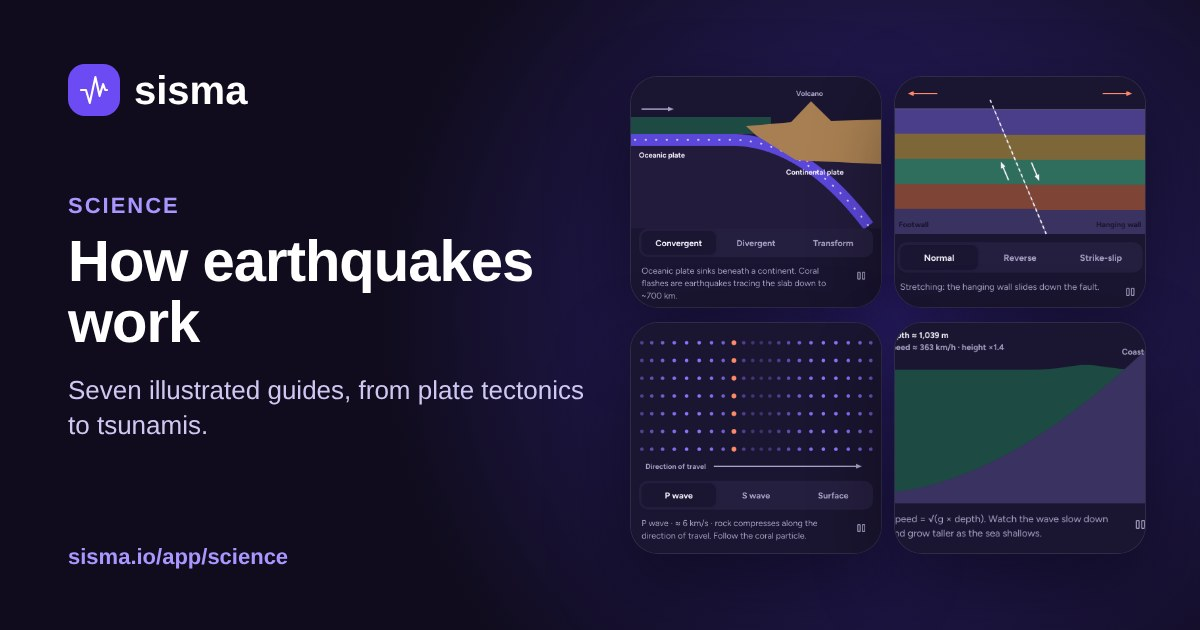
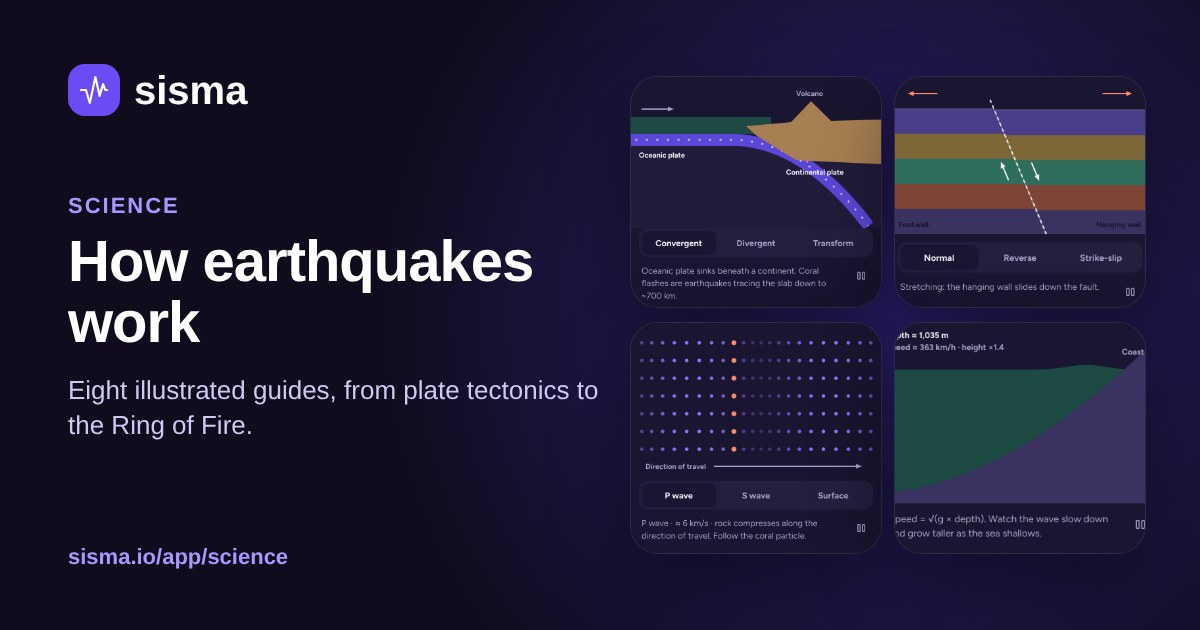
Science: The Ring of Fire, with a live Pacific earthquake map
- New article (content/science.json, English like the others): what the Ring of Fire is, the plates and boundary
  types, why subduction zones make the largest earthquakes (Chile 1960, Alaska 1964, Tōhoku 2011, Kamchatka 1952)
  and tsunamis, the volcanic arcs, deep earthquakes along sinking slabs (Wadati–Benioff zones, Tonga), Cascadia, and
  what in the Pacific is not part of the Ring (Hawaii, East Pacific Rise).
- RingWidget: the selected period's M4.5+ earthquakes on a Pacific-centred Equal Earth map with plate boundaries,
  coloured on / off the Ring, with live counts and share. lib/ring-of-fire.ts: rough outline as lat / lon boxes, 36 tests.
- Title and widget text in all 10 locales; "seven guides" → eight in the app (web.f4_p), help centre and SEO.
- Social cards: new og/science-ring.jpg, og/science.jpg rebuilt for the new subtitle.

Claude-Session: https://claude.ai/code/session_01VVoEA6g7d5oSRS2St1KTEW

Changed region(s): [[0.0617, 0.6032, 0.4933, 0.6333], [0.0617, 0.6635, 0.2158, 0.6937]]

diff --git a/app/src/components/science/Widgets.tsx b/app/src/components/science/Widgets.tsx
@@ -1,9 +1,13 @@
 'use client';
 // Interactive article widgets from design/SismaApp.dc.html: magnitude slider (visMag),
-// live depth histogram + Omori aftershock decay (visDepth), Drop/Cover/Hold + 3-day kit (visPrep).
+// live depth histogram + Omori aftershock decay (visDepth), Drop/Cover/Hold + 3-day kit (visPrep), and the live
+// Ring of Fire map (the M4.5+ earthquakes of the selected period around the Pacific, lib/ring-of-fire.ts).
 import { useMemo, useState, useSyncExternalStore } from 'react';
 import { useT } from '@/i18n/I18nProvider';
+import { geoEqualEarth, geoPath } from 'd3-geo';
 import { useQuakeData, RANGE_LABEL } from '@/components/QuakeData';
+import { LAND, SPHERE, usePlates } from '@/lib/world';
+import { onRingOfFire } from '@/lib/ring-of-fire';
 import styles from './science.module.css';
 
 const fill = (s: string, v: Record<string, string>) => s.replace(/\{(\w+)\}/g, (_, k) => v[k] ?? '');
@@ -113,5 +117,45 @@ export function PrepWidget({ kit }: { kit: string[] }) {
         ))}
       </section>
     </div>
+  );
+}
+
+// Equal Earth centred on 170° W and cropped to the Pacific (90° E to 60° W, 62° S to 68° N), so the rim fills the card.
+const RW = 640, RH = 400;
+const PACIFIC = { type: 'MultiPoint' as const, coordinates: [90, 130, 170, 210, 250, 300].flatMap(lon => [[lon, -62], [lon, 0], [lon, 68]]) };
+const ringProj = geoEqualEarth().rotate([170, 0]).fitExtent([[6, 6], [RW - 6, RH - 6]], PACIFIC);
+const ringPath = geoPath(ringProj);
+const RING_SPHERE = ringPath(SPHERE) ?? '';
+const RING_LAND = ringPath(LAND) ?? '';
+
+/** Live map of the selected period's M4.5+ earthquakes: on the Ring of Fire (warm) and elsewhere (muted), with counts. */
+export function RingWidget() {
+  const { t, m, nf } = useT();
+  const L = m.sci.ring;
+  const { all, range, loaded } = useQuakeData();
+  const plates = usePlates(true);
+  const platePath = useMemo(() => (plates ? ringPath(plates) ?? '' : ''), [plates]);
+  const dots = useMemo(() => all.filter(q => q.mag >= 4.5).map(q => ({ q, on: onRingOfFire(q.lat, q.lon), xy: ringProj([q.lon, q.lat]) }))
+    .filter(d => d.xy).sort((a, b) => Number(a.on) - Number(b.on) || a.q.mag - b.q.mag), [all]);
+  const on = dots.filter(d => d.on).length, total = dots.length;
+  const pct = total ? Math.round((on / total) * 100) : 0;
+  return (
+    <section className={styles.card}>
+      <p className={styles.cardLabel}>{loaded ? fill(L.live, { n: nf.format(on), total: nf.format(total), pct: String(pct), range: t(RANGE_LABEL[range]) }) : '…'}</p>
+      <svg viewBox={`0 0 ${RW} ${RH}`} className={styles.ringMap} role="img" aria-label={L.map}>
+        <path d={RING_SPHERE} fill="var(--map-sea)" />
+        <path d={RING_LAND} fill="var(--map-land)" stroke="var(--map-line)" strokeWidth={0.5} />
+        {platePath && <path d={platePath} fill="none" stroke="var(--map-plate)" strokeWidth={1} strokeDasharray="4 3" opacity={0.7} />}
+        {dots.map(({ q, on: o, xy }) => (
+          <circle key={q.id} cx={xy![0]} cy={xy![1]} r={2.6 + (q.mag - 4.5) * 1.8} fill={o ? 'var(--mag-2)' : 'var(--ink2)'} fillOpacity={o ? 0.85 : 0.45}
+            stroke={o ? 'var(--bg)' : 'none'} strokeWidth={0.5} />
+        ))}
+      </svg>
+      <div className={styles.ringLegend}>
+        <span><i style={{ background: 'var(--mag-2)' }} />{L.on}<b>{nf.format(on)}</b></span>
+        <span><i style={{ background: 'var(--ink2)', opacity: 0.6 }} />{L.off}<b>{nf.format(total - on)}</b></span>
+      </div>
+      <p className={styles.ringNote}>{L.note}</p>
+    </section>
   );
 }

diff --git a/app/src/lib/ring-of-fire.ts b/app/src/lib/ring-of-fire.ts
@@ -1,0 +1,26 @@
+// The Pacific Ring of Fire as a rough outline for counting earthquakes (science article "The Ring of Fire"): the
+// subduction zones and plate boundaries around the Pacific, from New Zealand, Tonga and Indonesia through the
+// Philippines, Japan and Kamchatka, across the Aleutians and Alaska, and down the west of the Americas to Chile.
+// Hawaii (a hotspot) and the East Pacific Rise (a spreading ridge, e.g. Easter Island) lie inside the Pacific and are
+// left out, as are the Caribbean and Scotia arcs on the Atlantic side. It is a set of latitude / longitude boxes, so
+// it is approximate at the edges.
+
+/** [south, north, west, east] in degrees; west > east wraps across 180°. */
+type Box = [number, number, number, number];
+
+const BOXES: Box[] = [
+  [-15, 8, 95, 180],      // Sumatra and Java to Papua, Solomons, Vanuatu, Fiji
+  [8, 62, 119, 180],      // Philippines, Taiwan, Ryukyu, Japan, Kurils, Kamchatka
+  [-52, -15, 160, 180],   // New Zealand, Kermadec (west of 180°)
+  [-52, 8, -180, -170],   // Tonga, Kermadec, Samoa (east of 180°)
+  [50, 66, -180, -130],   // Aleutians, Alaska
+  [25, 60, -135, -110],   // Pacific coast of Canada and the United States, Cascadia, California
+  [5, 25, -118, -83],     // Mexico and Central America
+  [-60, 5, -90, -63],     // Andes: Colombia, Ecuador, Peru, Chile, Argentina
+];
+
+/** True when a point lies in the rough outline of the Pacific Ring of Fire. */
+export function onRingOfFire(lat: number, lon: number): boolean {
+  const x = ((lon + 540) % 360) - 180;
+  return BOXES.some(([s, n, w, e]) => lat >= s && lat <= n && (w <= e ? x >= w && x <= e : x >= w || x <= e));
+}

diff --git a/app/src/lib/ring-of-fire.test.ts b/app/src/lib/ring-of-fire.test.ts
@@ -1,0 +1,23 @@
+import { describe, expect, it } from 'vitest';
+import { onRingOfFire } from './ring-of-fire';
+
+describe('onRingOfFire', () => {
+  it.each([
+    ['Tokyo', 35.7, 139.8], ['Kamchatka', 53, 159], ['Philippines', 13, 124], ['Taiwan', 23.5, 121], ['Java', -7.5, 110],
+    ['Sumatra', -1, 100], ['Papua New Guinea', -6, 147], ['Vanuatu', -16, 168], ['Fiji', -18, 178.5], ['Tonga', -21, -175],
+    ['Kermadec', -30, -177.5], ['New Zealand', -41, 174], ['Aleutians', 52, -175], ['Anchorage', 61.2, -150],
+    ['Seattle', 47.6, -122.3], ['Cascadia offshore', 44, -125], ['San Francisco', 37.8, -122.4], ['Mexico City', 19.4, -99.1],
+    ['Guatemala', 14.6, -90.5], ['Ecuador', -1, -79], ['Lima', -12, -77], ['Santiago', -33.4, -70.6], ['Valdivia', -39.8, -73.2],
+  ])('includes %s', (_, lat, lon) => expect(onRingOfFire(lat, lon)).toBe(true));
+
+  it.each([
+    ['Hawaii', 19.4, -155.3], ['Easter Island', -27.1, -109.4], ['East Pacific Rise', -20, -113], ['Italy', 42, 13],
+    ['Turkey', 38, 37], ['Iceland', 64, -18], ['Puerto Rico', 18.2, -66.5], ['Mid-Atlantic Ridge', 0, -20],
+    ['Nepal', 28, 84], ['Iran', 32, 53], ['South Sandwich Islands', -57, -26], ['New York', 40.7, -74],
+  ])('leaves out %s', (_, lat, lon) => expect(onRingOfFire(lat, lon)).toBe(false));
+
+  it('wraps longitudes past 180°', () => {
+    expect(onRingOfFire(-21, 185)).toBe(true); // = -175, Tonga
+    expect(onRingOfFire(35.7, -220.2)).toBe(true); // = 139.8, Tokyo
+  });
+});

diff --git a/app/src/app/help/topics.tsx b/app/src/app/help/topics.tsx
@@ -433,7 +433,7 @@ export const TOPICS: Topic[] = [
       <>
       <div className={s.pair}>
         <div>
-          <p>The <Ui>Science</Ui> tab has seven short illustrated guides, each with an animated diagram: plate tectonics, fault types, seismic waves, magnitude and intensity, depth and aftershocks, tsunamis, and how to prepare.</p>
+          <p>The <Ui>Science</Ui> tab has eight short illustrated guides, each with an animated diagram or a live chart: plate tectonics, fault types, seismic waves, magnitude and intensity, depth and aftershocks, tsunamis, how to prepare, and the Ring of Fire, with a live map of how many recent earthquakes struck around the Pacific.</p>
           <p>Tap the buttons under a diagram to switch views, and the pause button to stop the animation. The article text is in English; the rest of the app follows your language.</p>
         </div>
         <Shot src="science" alt="Seismic waves article with an animated diagram of P waves" caption="A science guide" />

diff --git a/app/src/app/app/science/[slug]/page.tsx b/app/src/app/app/science/[slug]/page.tsx
@@ -8,7 +8,7 @@ import { notFound } from 'next/navigation';
 import science from '@/content/science.json';
 import { useT } from '@/i18n/I18nProvider';
 import { ScienceCanvas } from '@/components/science/ScienceCanvas';
-import { DepthWidget, MagnitudeWidget, PrepWidget } from '@/components/science/Widgets';
+import { DepthWidget, MagnitudeWidget, PrepWidget, RingWidget } from '@/components/science/Widgets';
 import { VISUALS, type CanvasVisual } from '@/components/science/visuals';
 import styles from '@/components/science/science.module.css';
 
@@ -50,6 +50,7 @@ function ArticleView({ a, i }: { a: Article; i: number }) {
       {a.visual === 'mag' && <MagnitudeWidget />}
       {a.visual === 'depth' && <DepthWidget />}
       {a.visual === 'prep' && <PrepWidget kit={a.kit ?? []} />}
+      {a.visual === 'ring' && <RingWidget />}
 
       {a.sections.map(s => (
         <section key={s.h} className={styles.section} lang="en"><h2>{s.h}</h2><p>{s.p}</p></section>

diff --git a/app/src/lib/seo.ts b/app/src/lib/seo.ts
@@ -58,9 +58,9 @@ export const CARDS = {
   },
   science: {
     title: 'How Earthquakes Work: Illustrated Science | sisma',
-    description: 'Seven illustrated guides to plate tectonics, faults, seismic waves, magnitude, depth, tsunamis and earthquake preparedness.',
+    description: 'Eight illustrated guides to plate tectonics, faults, seismic waves, magnitude, depth, tsunamis, the Pacific Ring of Fire and earthquake preparedness.',
     path: '/app/science', image: 'science', alt: 'Diagrams of plate tectonics, fault types, seismic waves and a tsunami',
-    kicker: 'Science', heading: 'How earthquakes work', sub: 'Seven illustrated guides, from plate tectonics to tsunamis.',
+    kicker: 'Science', heading: 'How earthquakes work', sub: 'Eight illustrated guides, from plate tectonics to the Ring of Fire.',
   },
   help: {
     title: 'Help & Support — sisma',

diff --git a/app/src/components/science/science.module.css b/app/src/components/science/science.module.css
@@ -90,3 +90,11 @@
 .box :global(.ms) { font-size: 16px; color: transparent; }
 .box[data-on='true'] { border-color: var(--mint); background: var(--mint); }
 .box[data-on='true'] :global(.ms) { color: #0B2A20; }
+
+/* Ring of Fire widget: Pacific-centred map of the period's M4.5+ events, legend and note. */
+.ringMap { display: block; width: 100%; height: auto; border-radius: 16px; }
+.ringLegend { display: flex; flex-wrap: wrap; gap: 8px 18px; font-size: 14px; font-weight: 600; }
+.ringLegend span { display: inline-flex; align-items: center; gap: 8px; }
+.ringLegend i { width: 12px; height: 12px; border-radius: 6px; flex: none; }
+.ringLegend b { font-weight: 800; }
+.ringNote { margin: 0; font-size: 13px; line-height: 1.45; color: var(--ink2); }

diff --git a/CLAUDE.md b/CLAUDE.md
@@ -47,6 +47,8 @@ Rename app/src/app/app/science/-slug-/ to app/src/app/app/science/[slug]/ (the e
    Events are the same numbered pins as the maps (lib/pin.ts; Depth mode fills them by depth), drawn from cached sprites
 6. Science (done): list + article with the four canvas visuals (plates, faults, waves, tsunami) and the
    magnitude / depth / preparedness widgets — components/science/. Article text is English only (content/science.json)
+   The Ring of Fire article has a live widget: the period's M4.5+ events on a Pacific-centred map, counted on / off the
+   Ring (rough outline in lib/ring-of-fire.ts, tested); its social card is public/og/science-ring.jpg (og-cards.mjs)
 7. Me / account dashboard (skeleton done: app/app/me): email + password (sign-in, sign-up, reset, change; no email-link sign-in) and Google sign-in (components/Account.tsx, lib/oauth.ts;
    Google button shows when the provider is on in Supabase; Android: in-app account picker via @capgo/capacitor-social-login →
    signInWithIdToken with a nonce; Android OAuth clients per signing key, docs/android-setup.md §4), profile + plan, alerts saved to
